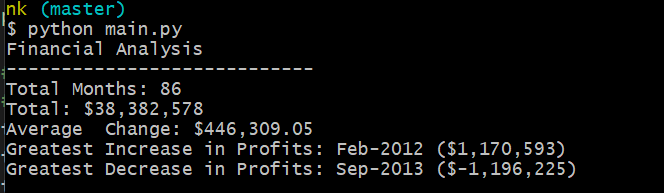
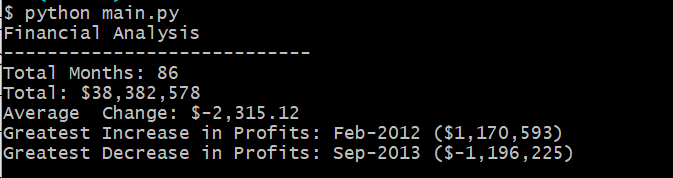
Average Change update

Changed region(s): [[0.0, 0.0, 0.8735, 1.0]]

diff --git a/PyBank/main.py b/PyBank/main.py
@@ -22,6 +22,8 @@ with open(csv_path, newline="") as csv_file:
     # set statistical variables
     total_months = 0 # Total Month of financial data
     total_PnL_amount = 0   # Net Profit / Loss
+    total_PnL_change = 0    # Total Change in Value
+    previous_month_PnL = 0
     great_inc_profit_month = ""    # Month of greatest increase in profits
     great_inc_profit_amount = float("-inf")    # greatest increase in profits by value
 
@@ -35,9 +37,16 @@ with open(csv_path, newline="") as csv_file:
 
         #Task 1: The total number of months included in the dataset
         total_months = total_months + 1
-        
+
         #Task 2: The net total amount of "Profit/Losses" over the entire period
         total_PnL_amount = total_PnL_amount + fin_PnL_amount
+
+        #Start calculating the total change amount begining the second record month
+        if total_months >= 2:
+            total_PnL_change = total_PnL_change + (fin_PnL_amount - previous_month_PnL)
+        
+        #Set value previous month Profit and Loss for next itration
+        previous_month_PnL = fin_PnL_amount
         
         #Task 4: The greatest increase in profits (date and amount) over the entire period
         if great_inc_profit_amount < fin_PnL_amount:
@@ -51,8 +60,8 @@ with open(csv_path, newline="") as csv_file:
 
 
 #Task 3: The average of the changes in "Profit/Losses" over the entire period
-if total_months != 0:
-    average_change_amount = total_PnL_amount / total_months
+if (total_months - 1) != 0:
+    average_change_amount = total_PnL_change / (total_months - 1)
 else:
     average_change_amount = 0
 
